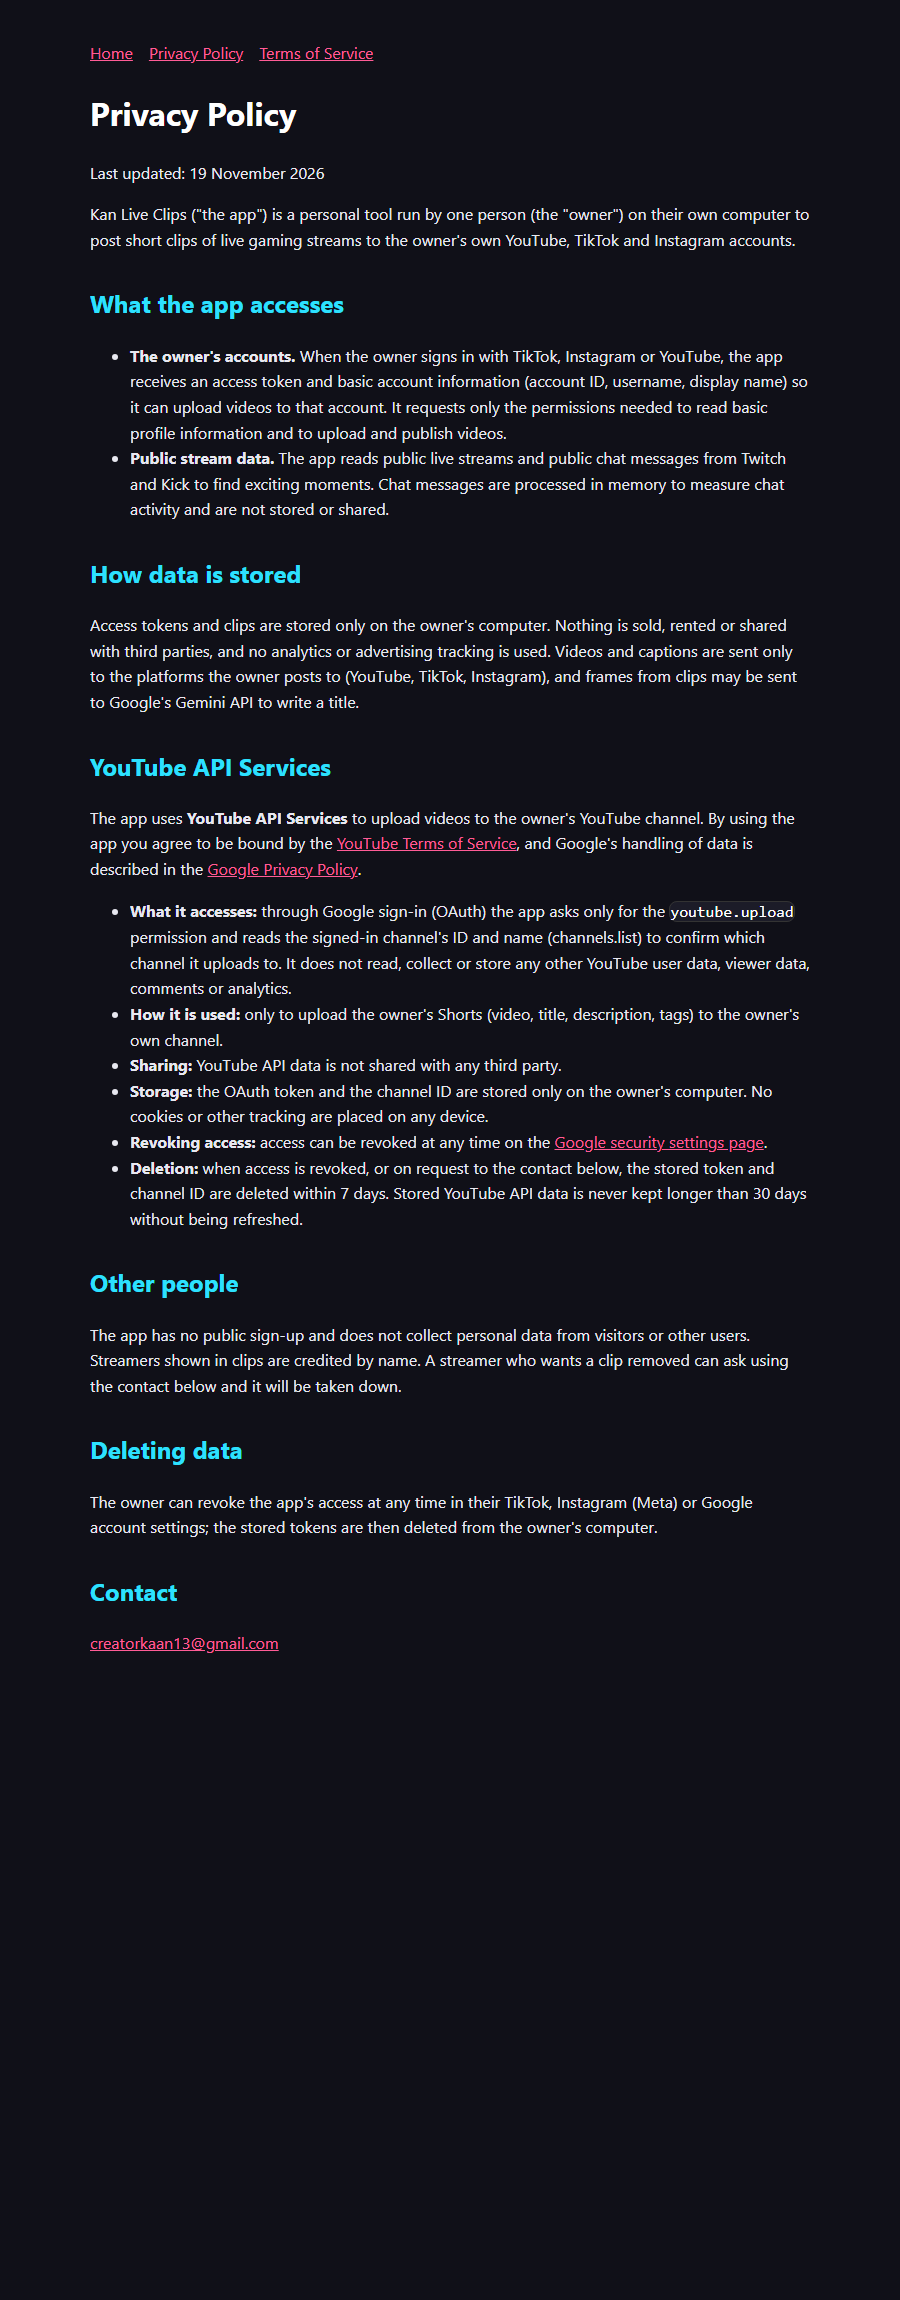
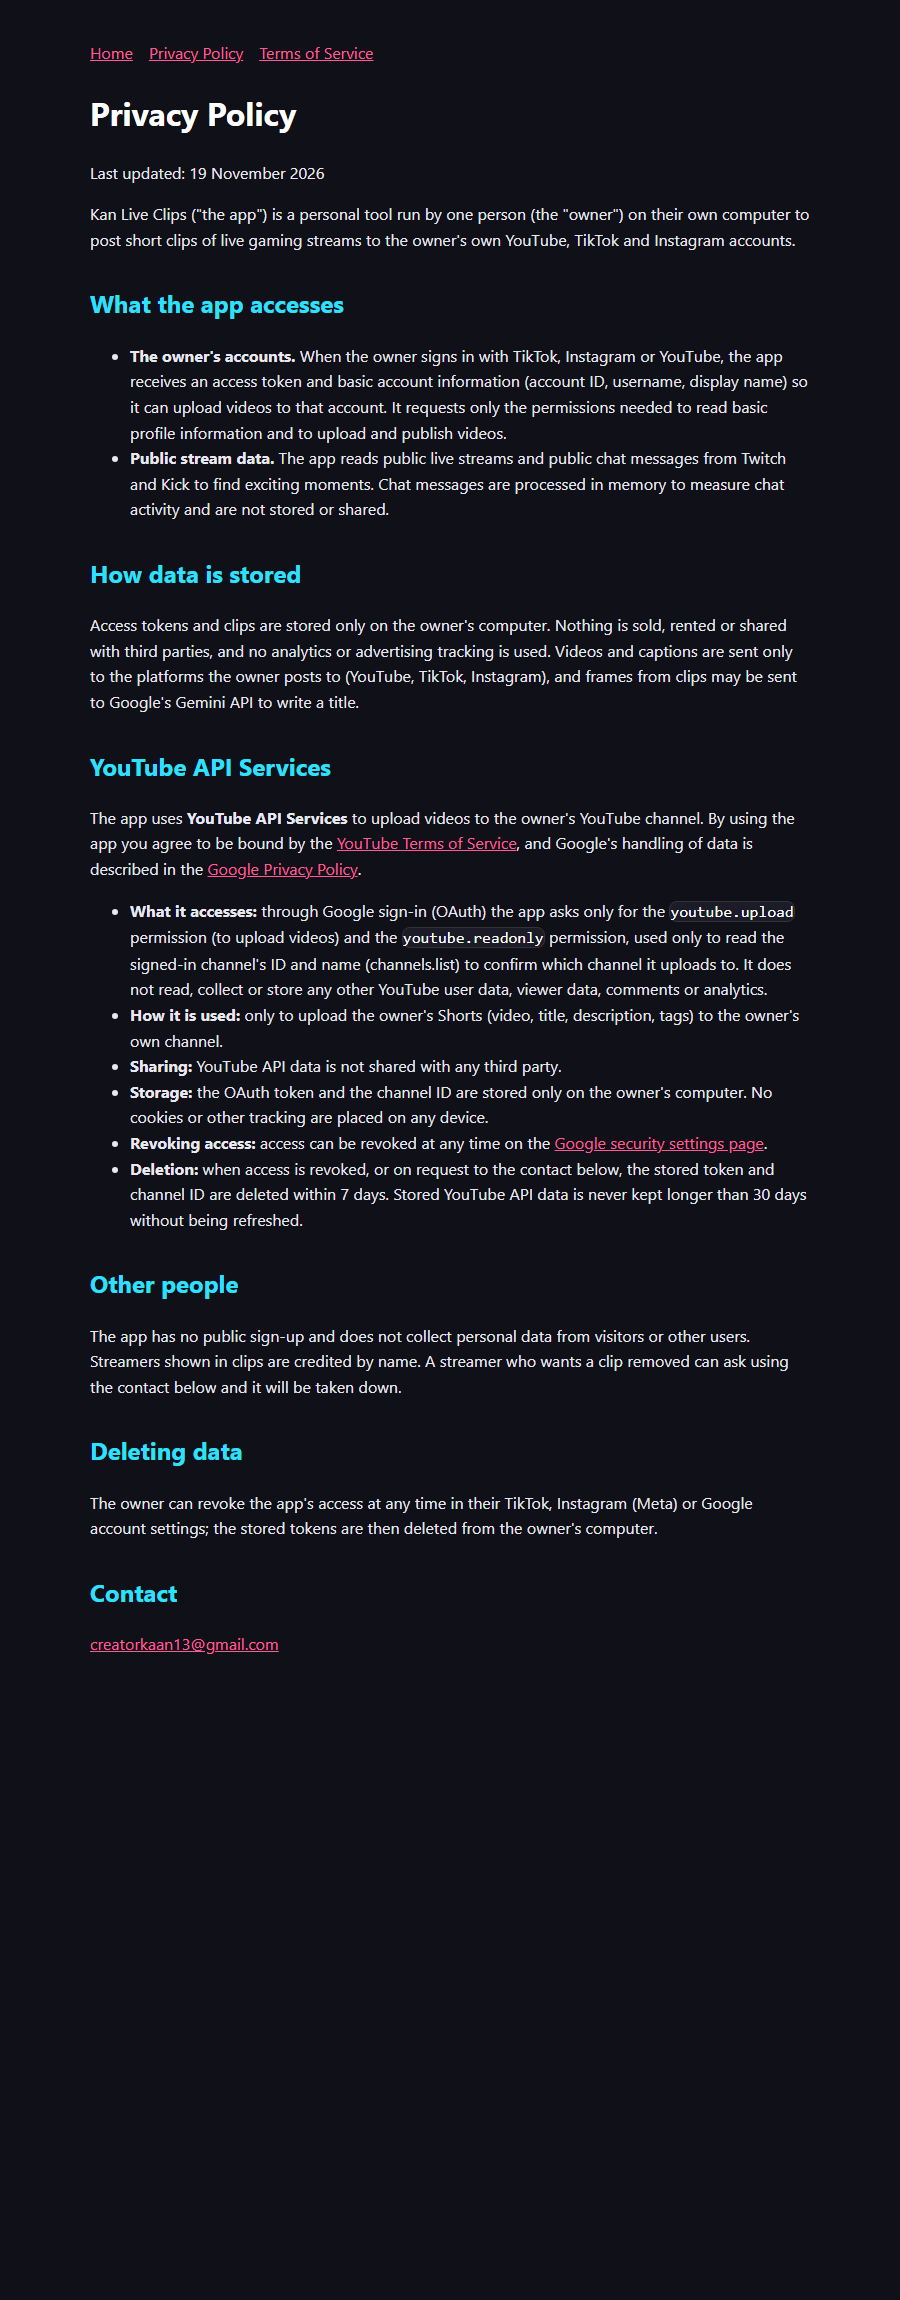
youtube.readonly in privacy/diagrams; OAuth and upload evidence

diff --git a/evidence/architecture.html b/evidence/architecture.html
@@ -11,9 +11,9 @@
 <rect x="615" y="60" width="240" height="90" class="b"/><text x="630" y="88" class="t">2. Clip maker</text><text x="630" y="110" class="s">cuts a 28 s 9:16 Short (ffmpeg),</text><text x="630" y="128" class="s">credits the streamer</text>
 <rect x="615" y="180" width="240" height="90" class="b"/><text x="630" y="208" class="t">3. Title writer</text><text x="630" y="230" class="s">sends 5 frames to Google Gemini</text><text x="630" y="248" class="s">API for a title (optional)</text>
 <rect x="345" y="180" width="240" height="90" class="b"/><text x="360" y="208" class="t">4. Publisher</text><text x="360" y="230" class="s">one upload at a time, best clip first,</text><text x="360" y="248" class="s">stops when the daily quota is used</text>
-<rect x="345" y="300" width="510" height="100" class="g"/><text x="360" y="328" class="t">Local storage (owner's disk only)</text><text x="360" y="350" class="s">clips + metadata JSON; OAuth token file (.secrets/token.json, scope youtube.upload);</text><text x="360" y="368" class="s">no database, no server, no other users' data. Token deleted on revoke.</text>
+<rect x="345" y="300" width="510" height="100" class="g"/><text x="360" y="328" class="t">Local storage (owner's disk only)</text><text x="360" y="350" class="s">clips + metadata JSON; OAuth token file (.secrets/token.json, scopes youtube.upload, youtube.readonly);</text><text x="360" y="368" class="s">no database, no server, no other users' data. Token deleted on revoke.</text>
 <rect x="950" y="160" width="230" height="130" class="y"/><text x="965" y="188" class="t">YouTube Data API v3</text><text x="965" y="212" class="s">videos.insert (1,600 units)</text><text x="965" y="230" class="s">channels.list mine=true (1 unit)</text><text x="965" y="254" class="s">→ owner's channel "kan" only</text>
-<rect x="950" y="330" width="230" height="90" class="b"/><text x="965" y="358" class="t">Google OAuth 2.0</text><text x="965" y="380" class="s">owner signs in once in the</text><text x="965" y="398" class="s">browser; consent: youtube.upload</text>
+<rect x="950" y="330" width="230" height="90" class="b"/><text x="965" y="358" class="t">Google OAuth 2.0</text><text x="965" y="376" class="s">owner signs in once; consent:</text><text x="965" y="392" class="s">youtube.upload +</text><text x="965" y="408" class="s">youtube.readonly</text>
 <rect x="950" y="40" width="230" height="80" class="b"/><text x="965" y="68" class="t">Google Gemini API</text><text x="965" y="90" class="s">title text only</text>
 <path d="M250,95 L345,105" class="l"/><path d="M585,105 L615,105" class="l"/><path d="M735,150 L735,180" class="l"/><path d="M615,225 L585,225" class="l"/>
 <path d="M585,215 C760,300 860,240 950,225" class="l"/><path d="M855,215 C900,120 920,90 950,80" class="l"/>

diff --git a/evidence/upload.html b/evidence/upload.html
@@ -1,0 +1,20 @@
+<!doctype html><html><head><meta charset="utf-8"><style>body{margin:0;background:#0c0c0c;color:#ddd;font:13px Consolas,monospace}h1{font:bold 18px Segoe UI,Arial;color:#fff;margin:14px 18px 2px}p{font:13px Segoe UI,Arial;color:#aaa;margin:0 18px 10px}pre{margin:0 18px 16px;padding:12px;background:#151515;border:1px solid #333;border-radius:6px;white-space:pre-wrap}b{color:#6f6}</style></head><body>
+<h1>Kan Live Clips — upload interface (owner's terminal)</h1><p>Sign-in check, then the publisher uploading Shorts one at a time to the owner's channel with videos.insert.</p>
+<pre>&gt; python -m live_clipper youtube-check
+[ok] OAuth client file found
+[ok] signed in; uploads go to channel 'kan' (https://youtube.com/channel/UCba0l3oWIoy73rsm-fpBBCA)
+     Uploads are private by default: review them in YouTube Studio before publishing.
+</pre><pre>&gt; python -m live_clipper publish live_output/gta6_launch --privacy public --every 60 --ai-titles
+2026-11-18 23:32:25 title (reaction): GTA 6'da nobk'un KÍT▄ s³r³c³l³³ne chat'in tepkisi ? #shorts | hook: CHAT KAHKAHAYA BOºULDU
+2026-11-18 23:33:03 <b>uploaded (public)</b> 20261118_225145_twitch_nobk.json -> https://youtube.com/shorts/L7nRuRrMgkQ  [81/300], 16 more waiting
+--
+2026-11-19 02:04:53 title (quote): "VAPE BREAK?" û Jynxzi plays GTA 6 #shorts | hook: CHAT LOSES IT
+2026-11-19 02:05:08 <b>uploaded (public)</b> 20261119_015836_twitch_jynxzi.json -> https://youtube.com/shorts/wZOKnIRh5lA  [82/300], 16 more waiting
+2026-11-19 02:05:20 title (reaction): GTA 6'da burakoyunda'n²n g³lmekten KIRILDIºI o an! #shorts | hook: CHAT KOPTU G¦TT¦
+2026-11-19 02:05:53 <b>uploaded (public)</b> 20261119_011348_kick_burakoyunda.json -> https://youtube.com/shorts/85Mf66vtUHY  [83/300], 14 more waiting
+2026-11-19 02:06:12 title (chat): Chat LOST IT at this xqc GTA 6 moment ? #shorts | hook: WAIT FOR IT
+2026-11-19 02:06:25 <b>uploaded (public)</b> 20261119_014909_kick_xqc.json -> https://youtube.com/shorts/QXjuRhqDCbU  [84/300], 13 more waiting
+--
+2026-11-19 03:16:02 84 public so far (target 300); also posting to tiktok
+2026-11-19 03:18:28 <b>uploaded (public)</b> 20261119_030140_twitch_stableronaldo.json -> https://youtube.com/shorts/JZsGJKWvARA  [85/300], 0 more waiting
+</pre></body></html>

diff --git a/evidence/userflow.html b/evidence/userflow.html
@@ -7,7 +7,7 @@
 <style>.b{fill:#f4f6fb;stroke:#334;stroke-width:1.5}.y{fill:#ffecec;stroke:#c00;stroke-width:2}.d{fill:#fff7e0;stroke:#a70;stroke-width:1.5}.t{font-weight:700}.s{font-size:12px;fill:#444}.l{stroke:#333;stroke-width:1.6;fill:none;marker-end:url(#a)}</style>
 <text x="20" y="30" class="t">A. One-time sign-in</text>
 <rect x="20" y="45" width="200" height="80" rx="10" class="b"/><text x="35" y="72" class="t">1. Run youtube-check</text><text x="35" y="94" class="s">owner starts the tool</text>
-<rect x="260" y="45" width="220" height="80" rx="10" class="y"/><text x="275" y="72" class="t">2. Google consent screen</text><text x="275" y="94" class="s">owner signs in, allows</text><text x="275" y="110" class="s">"Manage your YouTube videos"</text>
+<rect x="260" y="45" width="220" height="80" rx="10" class="y"/><text x="275" y="72" class="t">2. Google consent screen</text><text x="275" y="92" class="s">owner allows "Manage your</text><text x="275" y="107" class="s">YouTube videos" + "View your</text><text x="275" y="122" class="s">YouTube account"</text>
 <rect x="520" y="45" width="210" height="80" rx="10" class="b"/><text x="535" y="72" class="t">3. Token saved locally</text><text x="535" y="94" class="s">only on owner's computer</text>
 <rect x="770" y="45" width="230" height="80" rx="10" class="b"/><text x="785" y="72" class="t">4. channels.list mine=true</text><text x="785" y="94" class="s">shows "uploads go to channel</text><text x="785" y="110" class="s">'kan'" to confirm the account</text>
 <path d="M220,85 L260,85" class="l"/><path d="M480,85 L520,85" class="l"/><path d="M730,85 L770,85" class="l"/>

diff --git a/privacy.html b/privacy.html
@@ -13,7 +13,7 @@
 <h2>YouTube API Services</h2>
 <p>The app uses <b>YouTube API Services</b> to upload videos to the owner's YouTube channel. By using the app you agree to be bound by the <a href="https://www.youtube.com/t/terms">YouTube Terms of Service</a>, and Google's handling of data is described in the <a href="http://www.google.com/policies/privacy">Google Privacy Policy</a>.</p>
 <ul>
-<li><b>What it accesses:</b> through Google sign-in (OAuth) the app asks only for the <code>youtube.upload</code> permission and reads the signed-in channel's ID and name (channels.list) to confirm which channel it uploads to. It does not read, collect or store any other YouTube user data, viewer data, comments or analytics.</li>
+<li><b>What it accesses:</b> through Google sign-in (OAuth) the app asks only for the <code>youtube.upload</code> permission (to upload videos) and the <code>youtube.readonly</code> permission, used only to read the signed-in channel's ID and name (channels.list) to confirm which channel it uploads to. It does not read, collect or store any other YouTube user data, viewer data, comments or analytics.</li>
 <li><b>How it is used:</b> only to upload the owner's Shorts (video, title, description, tags) to the owner's own channel.</li>
 <li><b>Sharing:</b> YouTube API data is not shared with any third party.</li>
 <li><b>Storage:</b> the OAuth token and the channel ID are stored only on the owner's computer. No cookies or other tracking are placed on any device.</li>

diff --git a/evidence/conditional.html b/evidence/conditional.html
@@ -1,0 +1,9 @@
+<!doctype html><html><head><meta charset="utf-8"><style>body{margin:0;background:#fff;font:15px Segoe UI,Arial,sans-serif;color:#111}h1{font-size:22px;margin:16px 24px 4px}h2{font-size:17px;margin:18px 24px 6px}p{margin:0 24px 8px;color:#444}img{display:block;margin:0 24px 8px;border:1px solid #999;width:800px}iframe{border:1px solid #999;margin:0 24px;width:1100px;height:560px}</style></head><body>
+<h1>Kan Live Clips — OAuth flow and upload interface (project 119872396853)</h1>
+<h2>a) OAuth consent screen</h2><p>The owner signs in with their own Google account (creatorkaan13@gmail.com, channel "kan"). Requested scopes: youtube.upload and youtube.readonly.</p>
+<img src="consent.jpg">
+<h2>a) Scopes granted and revocation</h2><p>Google Account → Security → Your connections to third-party apps → kaanclips: shows "View your YouTube account" and "Manage your YouTube videos"; "Delete all" revokes access.</p>
+<img src="revoke.jpg">
+<h2>b) Upload interface</h2><p>The tool is run from the owner's terminal: youtube-check confirms the channel, then the publisher uploads one Short at a time.</p>
+<iframe src="upload.html"></iframe>
+</body></html>
